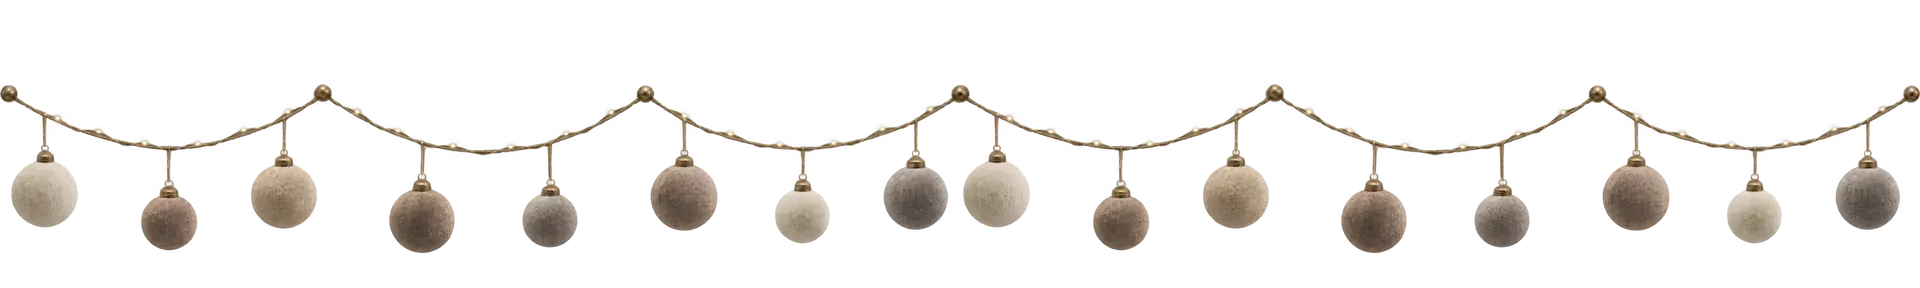
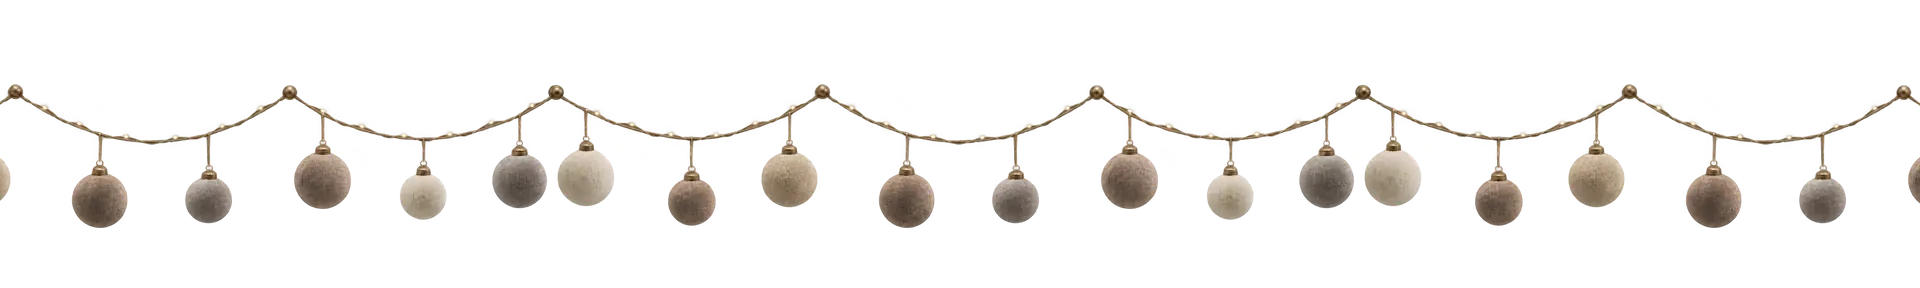
feat(newyear): «Роса» у верхнего края, на 15% мельче и горит всеми огоньками
- Крепления почти у кромки экрана (сдвиг полосы вверх только для «Росы»).
- Полоса пересобрана: копия концепта на 15% мельче, провисов больше,
  лишнее поровну уходит за края.
- Огоньки горят все в обеих фазах, мерцание — переливом яркости соседних;
  ореол шире и ярче, ядро почти белое; без приглушения .6 у «Росы».

Changed region(s): [[0.0, 0.2812, 1.0, 0.875]]

diff --git a/src/30_css.js b/src/30_css.js
@@ -2429,6 +2429,9 @@
     css.push('.lumen-hero .lumen-garland__a,.lumen-backdrop .lumen-garland__a,.lumen-hero .lumen-garland__b,.lumen-backdrop .lumen-garland__b{position:absolute;top:0;left:0;width:100%;height:auto;opacity:0;-webkit-transition:opacity .8s ease-in-out;transition:opacity .8s ease-in-out}');
     css.push('.lumen-hero .lumen-garland.has-glow:not(.is-b) .lumen-garland__a,.lumen-backdrop .lumen-garland.has-glow:not(.is-b) .lumen-garland__a,.lumen-hero .lumen-garland.is-b .lumen-garland__b,.lumen-backdrop .lumen-garland.is-b .lumen-garland__b{opacity:1}');
     css.push('.lumen-hero .lumen-garland--cold.has-glow:not(.is-b) .lumen-garland__a,.lumen-backdrop .lumen-garland--cold.has-glow:not(.is-b) .lumen-garland__a,.lumen-hero .lumen-garland--cold.is-b .lumen-garland__b,.lumen-backdrop .lumen-garland--cold.is-b .lumen-garland__b{opacity:.6}');
+    /* «Роса» горит в полную силу (владелец, 27.11: «совсем не горит» рядом
+       с гирляндой Lumen): её огоньки — только в слоях a/b, приглушать нечего. */
+    css.push('.lumen-hero .lumen-garland--cold.lumen-garland--rosa.has-glow:not(.is-b) .lumen-garland__a,.lumen-backdrop .lumen-garland--cold.lumen-garland--rosa.has-glow:not(.is-b) .lumen-garland__a,.lumen-hero .lumen-garland--cold.lumen-garland--rosa.is-b .lumen-garland__b,.lumen-backdrop .lumen-garland--cold.lumen-garland--rosa.is-b .lumen-garland__b{opacity:1}');
     css.push('.lumen-backdrop .lumen-fx__canvas,.lumen-hero .lumen-fx__canvas{position:absolute;top:0;left:0;width:100%;height:100%;opacity:.82}');
     css.push('.lumen-hero.lumen-theme--newyear .lumen-fx,.lumen-backdrop.lumen-theme--christmas .lumen-fx{contain:paint}');
     css.push('.lumen-backdrop .lumen-fx__still,.lumen-hero .lumen-fx__still{position:absolute;top:0;left:0;width:100%;height:100%}');
@@ -4837,6 +4840,10 @@
     if (garlandScale) {
       css.push('.lumen-hero .lumen-fx .lumen-garland{top:1.2vw;-webkit-transform:translateY(0)' + garlandScale + ';transform:translateY(0)' + garlandScale + ';-webkit-transform-origin:top center;transform-origin:top center}');
     }
+    /* «Роса» висит от верхнего края (владелец, 27.11: «поднять выше
+       сильнее»): над креплениями в полосе 84 px из 1920 пустого места —
+       убираем почти всё, крепления остаются ~0,3vw от края. */
+    css.push('.lumen-hero .lumen-fx .lumen-garland--rosa{top:' + (garlandScale ? '-3vw' : '-4.05vw') + '}');
     var garlandShift = 'translateY(' + heroShift + 'vh)' + garlandScale;
     css.push('.lumen-hero.lumen-hero--compact .lumen-fx .lumen-garland{-webkit-transform:' + garlandShift + ';transform:' + garlandShift + '}');
     css.push('.lumen-hero.lumen-motion-full .lumen-fx .lumen-garland{-webkit-transition:-webkit-transform' + EASE + ';transition:transform' + EASE + '}');

diff --git a/src/52_garland.js b/src/52_garland.js
@@ -129,7 +129,8 @@
       var node = view.node;
       if (!node) {
         node = document.createElement('div');
-        node.className = 'lumen-garland lumen-garland--' + (pack.style === 'warm' ? 'warm' : 'cold');
+        node.className = 'lumen-garland lumen-garland--' + (pack.style === 'warm' ? 'warm' : 'cold') +
+          (pack.style === 'rosa' ? ' lumen-garland--rosa' : '');
         node.setAttribute('aria-hidden', 'true');
         pack.strip.img.className = 'lumen-garland__strip';
         node.appendChild(pack.strip.img);
